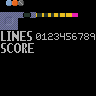
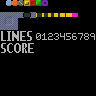
Better brick graphics

Changed region(s): [[0.25, 0.0, 0.5, 0.0625]]

diff --git a/src/game/ch_game_obj.c b/src/game/ch_game_obj.c
@@ -282,16 +282,17 @@ struct rb_grid *ch_game_generate_grid(struct ch_game *game) {
  * We will return only the canonical forms.
  */
 
-uint16_t ch_game_random_brick_shape(struct ch_game *game) {
+uint16_t ch_game_random_brick_shape(uint8_t *tileid,struct ch_game *game) {
   switch (rand()%7) {
-    case 0: return 0x0660;
-    case 1: return 0x00f0;
-    case 2: return 0x0446;
-    case 3: return 0x0226;
-    case 4: return 0x0720;
-    case 5: return 0x0630;
-    case 6: return 0x0360;
+    case 0: *tileid=0x01; return 0x0660;
+    case 1: *tileid=0x02; return 0x00f0;
+    case 2: *tileid=0x03; return 0x0446;
+    case 3: *tileid=0x04; return 0x0226;
+    case 4: *tileid=0x05; return 0x0720;
+    case 5: *tileid=0x06; return 0x0630;
+    case 6: *tileid=0x07; return 0x0360;
   }
+  *tileid=0x01;
   return 0x0660;
 }
 
@@ -407,13 +408,11 @@ void ch_game_new_brick(struct ch_game *game) {
   if (game->nextbrick.shape) {
     game->brick=game->nextbrick;
   } else {
-    game->brick.shape=ch_game_random_brick_shape(game);
-    game->brick.tileid=0x01+rand()%3;//TODO per shape instead?
+    game->brick.shape=ch_game_random_brick_shape(&game->brick.tileid,game);
   }
 
   if (game->nextbrickdelay) {
-    game->nextbrick.shape=ch_game_random_brick_shape(game);
-    game->nextbrick.tileid=0x01+rand()%3;//TODO per shape instead?
+    game->nextbrick.shape=ch_game_random_brick_shape(&game->nextbrick.tileid,game);
     ch_game_redraw_next_brick(game);
   } else {
     game->nextbrickdelay=1;
@@ -428,8 +427,7 @@ void ch_game_new_brick(struct ch_game *game) {
 }
 
 void ch_game_generate_next_brick(struct ch_game *game) {
-  game->nextbrick.shape=ch_game_random_brick_shape(game);
-  game->nextbrick.tileid=0x01+rand()%3;//TODO per shape instead?
+  game->nextbrick.shape=ch_game_random_brick_shape(&game->nextbrick.tileid,game);
   ch_game_redraw_next_brick(game);
 }
 

diff --git a/src/game/ch_game.h b/src/game/ch_game.h
@@ -71,7 +71,7 @@ int ch_game_input(struct ch_game *game,int eventid);
 
 struct rb_grid *ch_game_generate_grid(struct ch_game *game);
 
-uint16_t ch_game_random_brick_shape(struct ch_game *game);
+uint16_t ch_game_random_brick_shape(uint8_t *tileid,struct ch_game *game);
 uint16_t ch_game_rotate_shape(uint16_t shape,int d);
 void ch_game_clear_brick_cells(struct ch_game *game,const struct ch_brick *brick);
 void ch_game_print_brick_cells(struct ch_game *game,const struct ch_brick *brick);
